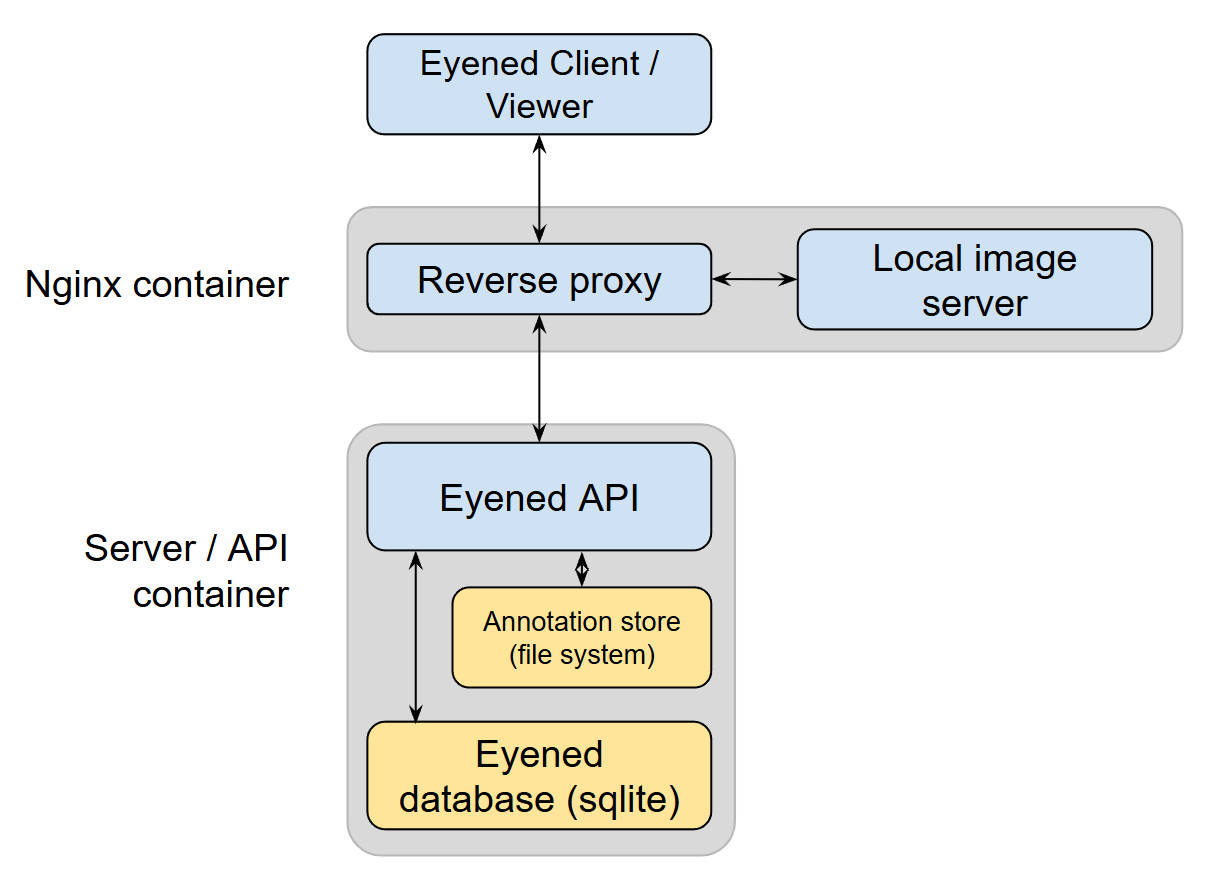
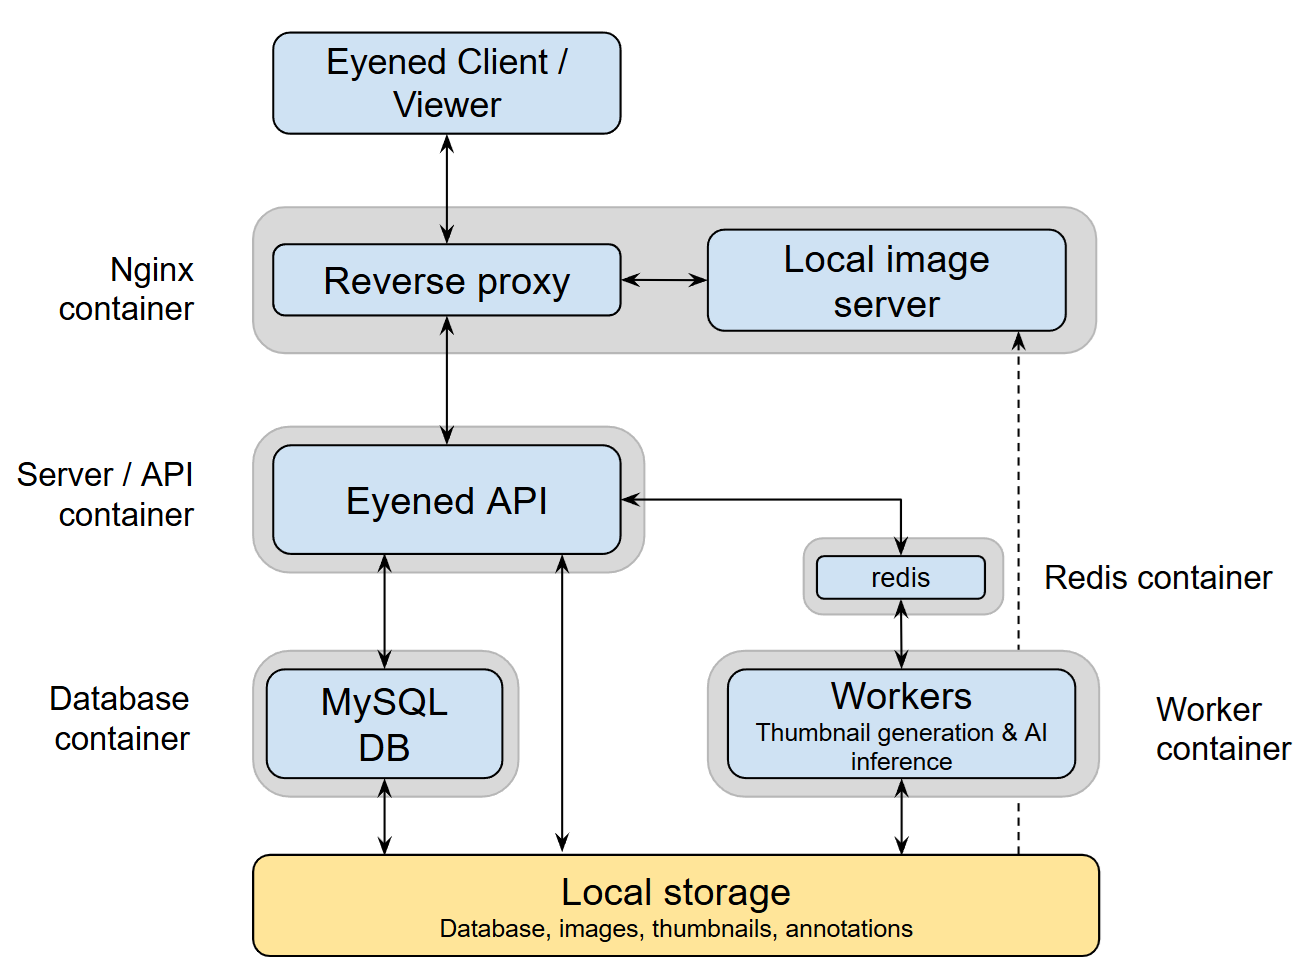
docker working except for image loading

diff --git a/client/src/lib/datamodel/instance.ts b/client/src/lib/datamodel/instance.ts
@@ -46,6 +46,7 @@ export interface Instance extends Item {
     SOPInstanceUid: string,
     datasetIdentifier: string,
     thumbnailIdentifier: string,
+    thumbnailPath: string,
     laterality: Laterality,
     modality: string,
     dicomModality: string,
@@ -80,6 +81,7 @@ export const InstanceConstructor = new ItemConstructor<Instance>('ImageInstanceI
     SOPInstanceUid: 'SOPInstanceUid',
     datasetIdentifier: 'DatasetIdentifier',
     thumbnailIdentifier: 'ThumbnailIdentifier',
+    thumbnailPath: 'ThumbnailPath',
     // manufacturer: 'Manufacturer',
     // manufacturerModelName: 'ManufacturerModelName',
     laterality: 'Laterality',

diff --git a/client/src/lib/data-loading/utils.ts b/client/src/lib/data-loading/utils.ts
@@ -27,10 +27,9 @@ export function parseDate(dateString: string): Date | undefined {
 }
 
 export function getThumbUrl(Instance: Instance) {
-    if (!Instance.thumbnailIdentifier) return;
+    if (!Instance.thumbnailPath) return;
 
-    let image_url = [thumbnailHost, Instance.thumbnailIdentifier].join('/');
-    if (image_url.endsWith('.binary')) image_url += '.png';
+    let image_url = [thumbnailHost, Instance.thumbnailPath].join('/') + '_144.jpg';
 
     return encodeURI(image_url);
 }

diff --git a/server/config.py b/server/config.py
@@ -1,43 +1,45 @@
 from typing import Dict, Optional
 
 from pydantic import Field
-from pydantic_settings import BaseSettings
+from pydantic_settings import BaseSettings, SettingsConfigDict
 import os
 
 class Settings(BaseSettings):
-    viewer_env: str = Field(default="production", env="VIEWER_ENV")
+    # IMPORTANT: the base fields in this file must match environment variable names exactly (with the exception of case)
+    # Base settings takes care of reading the environment internally
+    model_config = SettingsConfigDict(case_sensitive=False, extra="ignore")
+
+    viewer_env: str = "production"
+
     # Authentication
-    jwt_secret_key: str = Field(..., env="JWT_SECRET_KEY")
+    jwt_secret_key: str
     access_token_duration: int = Field(
-        env="PUBLIC_AUTH_TOKEN_DURATION",
+        validation_alias="PUBLIC_AUTH_TOKEN_DURATION",
         default=259200,  # 3 days in seconds
     )
     refresh_token_duration: int = Field(
-        env="AUTH_REFRESH_TOKEN_DURATION",
+        validation_alias="AUTH_REFRESH_TOKEN_DURATION",
         default=2592000,  # 30 days in seconds
     )
 
     # Default username and password for the admin user
-    admin_username: str = Field(default=None, env="ADMIN_USERNAME")
-    admin_password: str = Field(default=None, env="ADMIN_PASSWORD")
+    admin_username: str
+    admin_password: str
 
     # Database Settings
-    db_engine_string: Optional[str] = Field(default=None, env="DB_ENGINE_STRING")
-    db_user: Optional[str] = Field(default=None, env="DB_USER")
-    db_password: Optional[str] = Field(default=None, env="DB_PASSWORD")
-    db_host: Optional[str] = Field(default=None, env="DB_HOST")
-    db_name: Optional[str] = Field(default=None, env="DB_NAME")
-    db_port: Optional[str] = Field(default=None, env="DB_PORT")
+    db_user: str
+    db_password: str
+    db_host: str
+    db_name: str
+    db_port: str
 
     # Path Settings
-    
-    # for some reason, this is not working ???
-    images_basepath: str = Field(default="/", env="IMAGES_BASEPATH")
-    thumbnails_path: str = Field(default="/", env="THUMBNAILS_PATH")
-    annotations_path: str = Field(default="/", env="ANNOTATIONS_DIR")
-    importer_copy_path: str = Field(default="/", env="IMPORTER_COPY_PATH")
-    cfi_cache_path: str = Field(default="/", env="CFI_CACHE_PATH")
-    
+    images_basepath: str
+    thumbnails_path: str
+    annotations_path: str
+    images_basepath_local: Optional[str] = None
+    importer_copy_path: Optional[str] = None
+    cfi_cache_path: Optional[str] = None
 
     @property
     def database(self) -> Dict[str, Optional[str]]:
@@ -55,18 +57,13 @@ class Settings(BaseSettings):
             "annotations_path": self.annotations_path,
             "thumbnails_path": self.thumbnails_path,
             "images_basepath": self.images_basepath,
+            "images_basepath_local": self.images_basepath_local,
             "default_date": None,
             "importer_copy_path": self.importer_copy_path,
             "cfi_cache_path": self.cfi_cache_path,
-            "secret_key": None,
+            "secret_key": self.jwt_secret_key,
             "image_server_url": None,
             "trash_path": None,
         }
 
-    class Config:
-        # env_file = ".env"
-        case_sensitive = False
-
-
-# Create a global settings instance
 settings = Settings()

diff --git a/orm/eyened_orm/importer/thumbnails.py b/orm/eyened_orm/importer/thumbnails.py
@@ -126,17 +126,19 @@ def save_thumbnails(
     return thumbnail_identifier
 
 
-def update_thumbnails_for_images(session, images, thumbnails_path, secret_key, N=1000):
+def update_thumbnails_for_images(session, images, thumbnails_path, secret_key, N=1000, print_errors=False):
     for i, image in enumerate(tqdm(images)):
         if image.path.endswith(".json"):
             image.ThumbnailPath = None
         else:
-            try:
-                thumbnail_identifier = save_thumbnails(
-                    image, Path(thumbnails_path), secret=secret_key
-                )
-            except Exception:
-                thumbnail_identifier = ""
+            # try:
+            thumbnail_identifier = save_thumbnails(
+                image, Path(thumbnails_path), secret=secret_key
+            )
+            # except Exception as e:
+            #     if print_errors:
+            #         print(f"Error generating thumbnail for image {image.ImageInstanceID}: {e}")
+            #     thumbnail_identifier = ""
             image.ThumbnailPath = thumbnail_identifier
 
         if (i + 1) % N == 0:
@@ -144,7 +146,7 @@ def update_thumbnails_for_images(session, images, thumbnails_path, secret_key, N
     session.commit()
 
 
-def update_thumbnails(session, thumbnails_path, secret_key, update_failed=False):
+def update_thumbnails(session, thumbnails_path, secret_key, update_failed=False, print_errors=False):
     where = (ImageInstance.ThumbnailPath == None)
     if update_failed:
         where = (where | (ImageInstance.ThumbnailPath == ""))
@@ -159,4 +161,4 @@ def update_thumbnails(session, thumbnails_path, secret_key, update_failed=False)
     )
     print(f"Found {len(images)} images without thumbnails")
 
-    update_thumbnails_for_images(session, images, thumbnails_path, secret_key)
+    update_thumbnails_for_images(session, images, thumbnails_path, secret_key, print_errors=print_errors)

diff --git a/server/utils/huey.py b/server/utils/huey.py
@@ -38,15 +38,14 @@ def task_run_inference(config):
     DBManager.init(config)
     session = DBManager.get_session()
     
-    with session() as s:
-        run_inference(s, device=None, cfi_cache_path=None)
-    
+    run_inference(session, device=None, cfi_cache_path=None)
+    session.close()
     logger.info("Inference task completed successfully")
     return True
 
 @huey.task()
 @huey.lock_task('update-thumbnails-lock') 
-def task_update_thumbnails(config):
+def task_update_thumbnails(config, print_errors=False):
     """
     Update thumbnails for images in a background task.
     
@@ -56,10 +55,11 @@ def task_update_thumbnails(config):
     from eyened_orm.importer.thumbnails import update_thumbnails
     from eyened_orm.db import DBManager
     logger.info(f"Starting thumbnail update task")
-    session = DBManager.get_session(config)
+
+    DBManager.init(config)
+    session = DBManager.get_session()
     
-    with session() as s:
-        update_thumbnails(s, thumbnails_path='/storage/thumbnails', secret_key= config["secret_key"])
-    
+    update_thumbnails(session, thumbnails_path='/storage/thumbnails', secret_key= config["secret_key"], print_errors=True)
+    session.close()
     logger.info("Thumbnail update task completed successfully")
     return True

diff --git a/server/utils/database_init.py b/server/utils/database_init.py
@@ -5,7 +5,7 @@ import warnings
 from eyened_orm.db import create_connection_string_mysql
 from sqlalchemy.orm import Session
 from sqlalchemy import create_engine, text
-from eyened_orm.Creator import Creator
+from eyened_orm import Creator, SourceInfo, ModalityTable
 from eyened_orm.base import Base
 
 from ..db import config, DBManager
@@ -60,6 +60,21 @@ def init_admin(session: Session) -> None:
     new_admin.Description = "Default admin user created during initialization"
     
     session.add(new_admin)
+    session.commit()
+
+
+def init_other_objects(session):
+    # add SourceInfo 37 and Modality 14 if they don't exist
+    source_info = session.get(SourceInfo, 37)
+    if source_info is None:
+        source_info = SourceInfo(SourceInfoID=37, SourceName="Default", SourcePath="", ThumbnailPath="")
+        session.add(source_info)
+
+    modality = session.get(ModalityTable, 14)
+    if modality is None:
+        modality = ModalityTable(ModalityID=14, ModalityTag="Default")
+        session.add(modality)
+
     session.commit()
 
 

diff --git a/server/main.py b/server/main.py
@@ -7,7 +7,7 @@ from fastapi.responses import FileResponse
 from .routes import annotations, api, auth, form_annotations, import_api, instances, tasks
 from .config import settings
 from .db import get_db
-from .utils.database_init import create_database, init_annotation_types, init_admin
+from .utils.database_init import create_database, init_annotation_types, init_admin, init_other_objects
 
 app_api = FastAPI(title="Eyened API")
 app_api.include_router(auth.router)
@@ -28,6 +28,8 @@ async def lifespan(app: FastAPI):
         create_database()
         # initialize admin user
         init_admin(session)
+        # initialize other objects
+        init_other_objects(session)
         # initialize annotation types
         init_annotation_types(session)
     except Exception as e:
@@ -42,6 +44,9 @@ app = FastAPI(lifespan=lifespan)
 
 app.mount("/api", app_api)
 
+@app.get("/health")
+async def health_check():
+    return {"status": "healthy"}
 
 if settings.viewer_env == "production":
 

diff --git a/orm/eyened_orm/importer/importer.py b/orm/eyened_orm/importer/importer.py
@@ -83,7 +83,7 @@ class Importer:
             ).relative_to(self.config["images_basepath"])
         else:
             self.default_path_relative = None
-        self.images_basepath_container = self.config.get("images_basepath_container", None)
+        self.images_basepath_local = self.config.get("images_basepath_local", None)
 
     def init_objects(self, data: List[Dict]):
         """
@@ -283,7 +283,7 @@ class Importer:
 
         fpath = Path(path_or_url)
 
-        local_path = Path(self.images_basepath_container) / fpath.relative_to(basepath) if self.images_basepath_container else fpath
+        local_path = Path(self.images_basepath_local) / fpath.relative_to(basepath) if self.images_basepath_local else fpath
         
         assert local_path.exists(), f"File does not exist: {local_path}"
         assert local_path.is_absolute(), f"Path must be absolute: {local_path}"

diff --git a/server/routes/import_api.py b/server/routes/import_api.py
@@ -61,10 +61,7 @@ def make_importer(session, project_name, options: Dict[str, Any]):
         run_ai_models=options.get("run_ai_models", True),
         generate_thumbnails=options.get("generate_thumbnails", True),
         copy_files=options.get("copy_files", False),
-        config={
-            "images_basepath":settings.images_basepath,
-            "images_basepath_container": '/images',
-        }
+        config=settings.make_orm_config()
     )
 
 @router.post("/import/exec", response_model=ImportResponse)
@@ -107,7 +104,7 @@ async def import_exec(
             
         # Schedule background processing tasks
         config = settings.make_orm_config()
-        task_update_thumbnails(config)
+        task_update_thumbnails(config, print_errors=True)
         task_run_inference(config)
         
         return ImportResponse(

diff --git a/orm/eyened_orm/ImageInstance.py b/orm/eyened_orm/ImageInstance.py
@@ -234,9 +234,10 @@ class ImageInstance(Base):
 
     @property
     def path(self):
-        if self.config.get("images_basepath") is None:
+        basepath = self.config.get("images_basepath_local", self.config.get("images_basepath"))
+        if basepath is None:
             raise RuntimeError("images_basepath not set in config")
-        return os.path.join(self.config["images_basepath"], self.DatasetIdentifier)
+        return os.path.join(basepath, self.DatasetIdentifier)
 
     @property
     def url(self):

diff --git a/server/db.py b/server/db.py
@@ -2,13 +2,8 @@ from eyened_orm import DBManager
 
 from .config import settings
 
-if settings.db_engine_string is not None:
-    database = {'conn_string': settings.db_engine_string}
-else:
-    database = settings.database
-
 config = {
-    "database": database,
+    "database": settings.database,
     "annotations_path": settings.annotations_path
 }
 

diff --git a/server/routes/instances.py b/server/routes/instances.py
@@ -262,5 +262,5 @@ async def get_thumb(
     thumbnail_identifier: str,
 ):
     response = Response()
-    response.headers["X-Accel-Redirect"] = "/files/" + thumbnail_identifier
+    response.headers["X-Accel-Redirect"] = "/thumbnails/" + thumbnail_identifier
     return response
